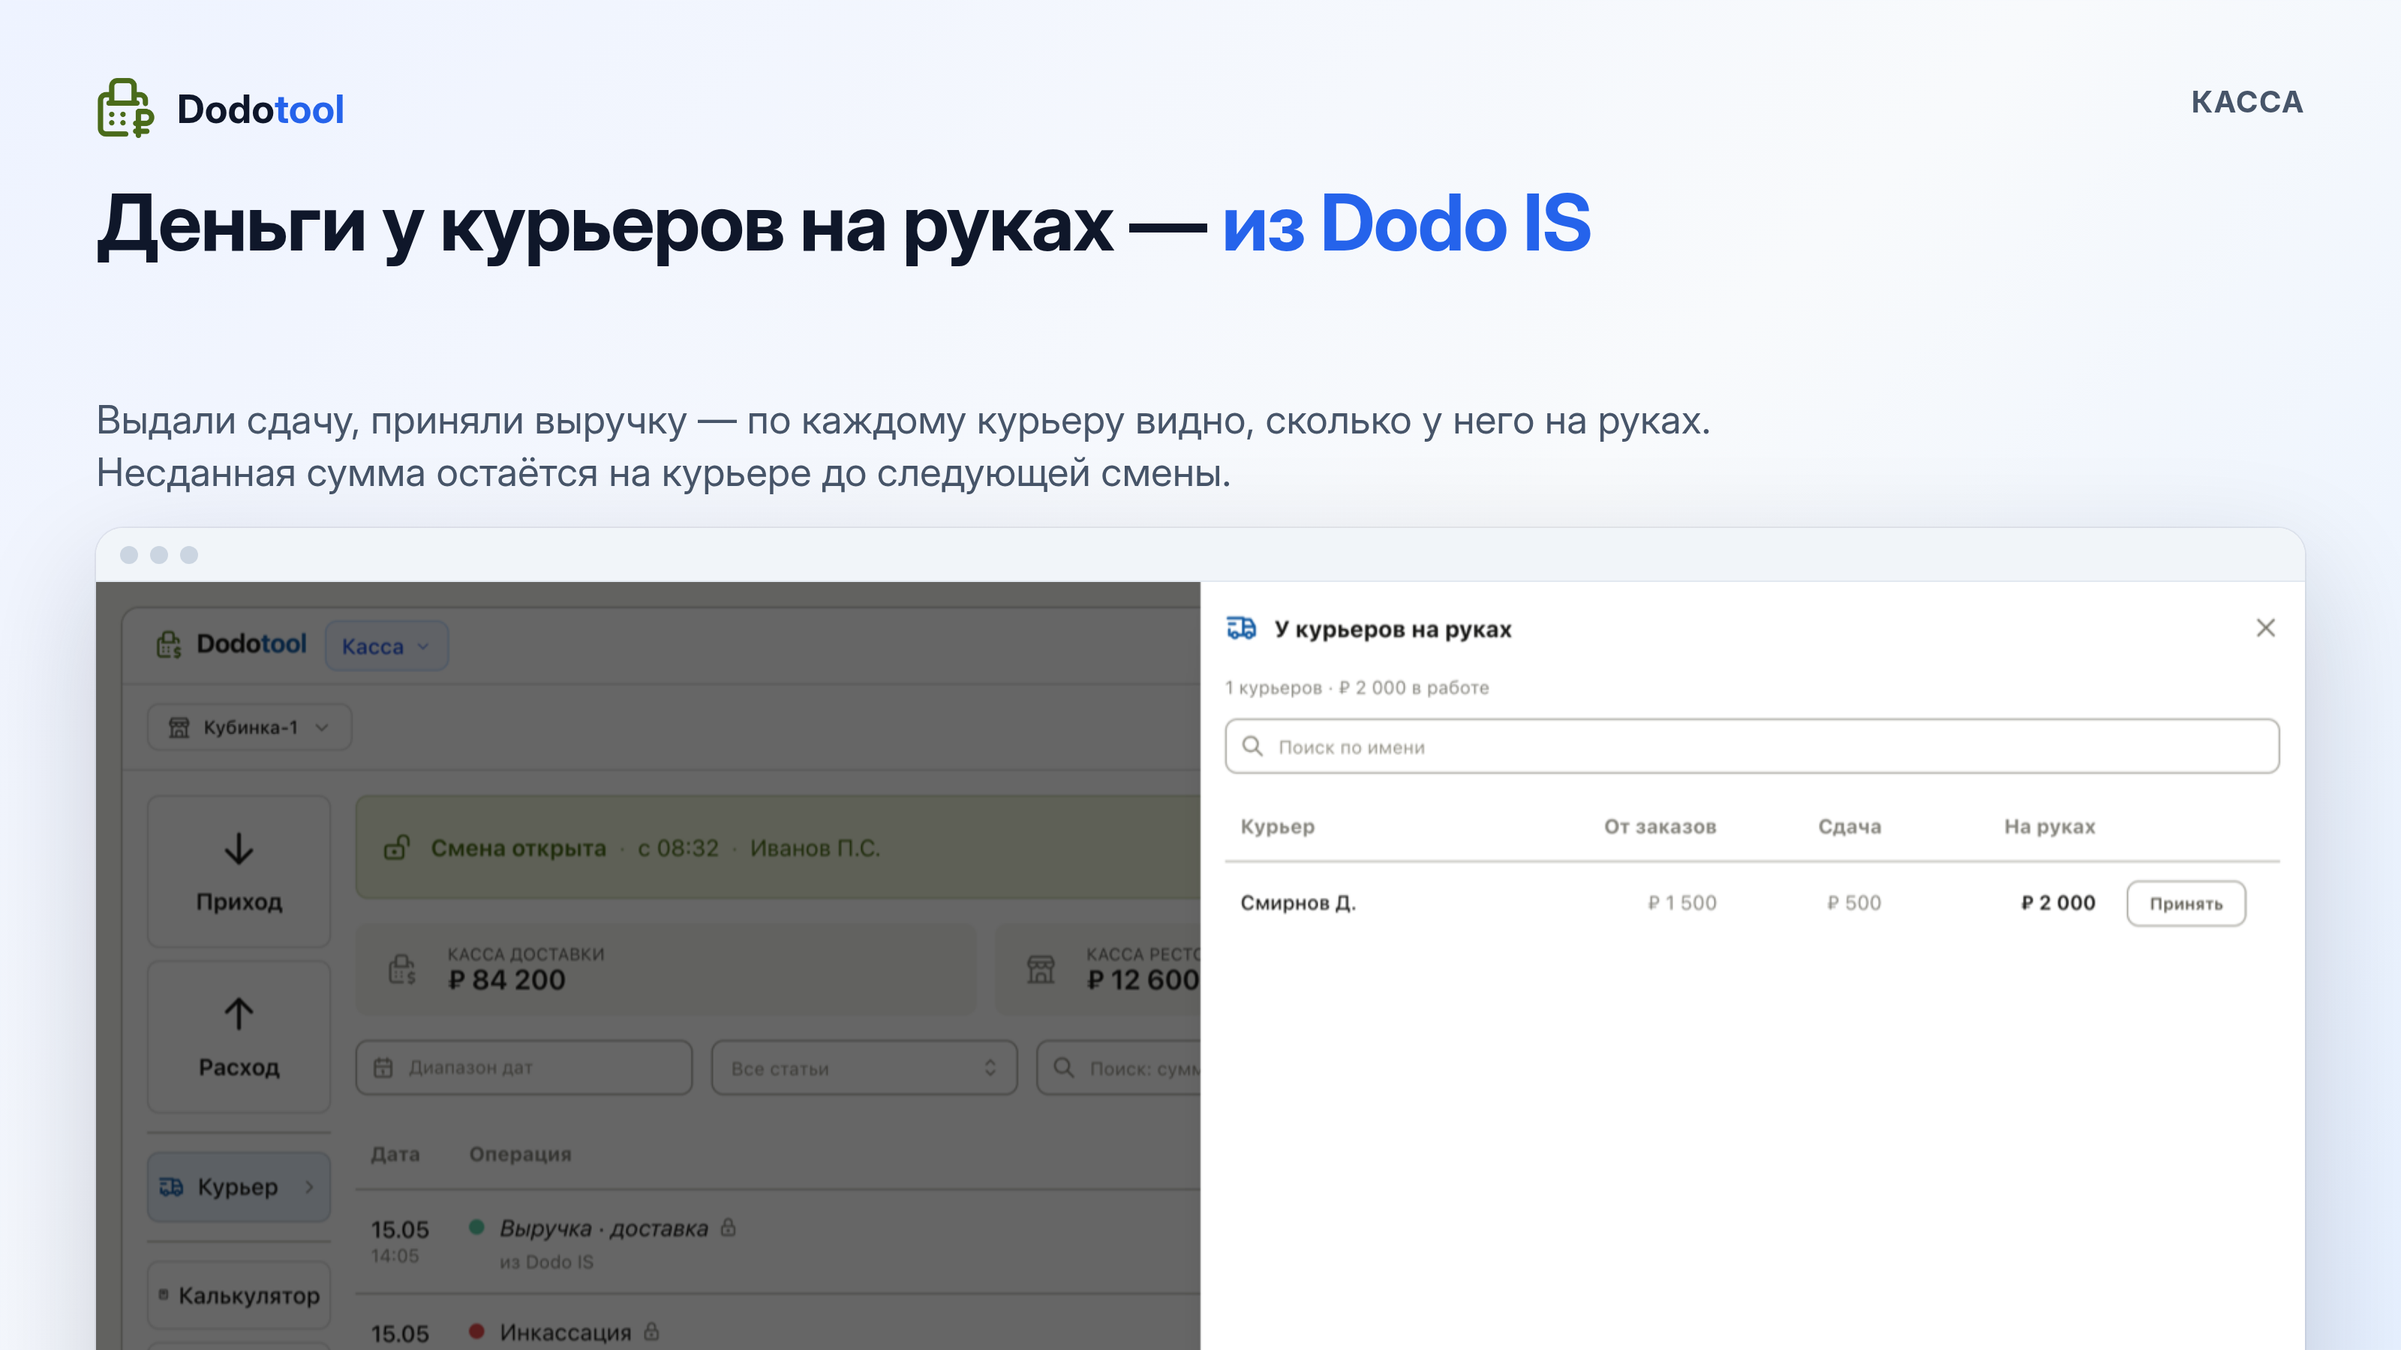
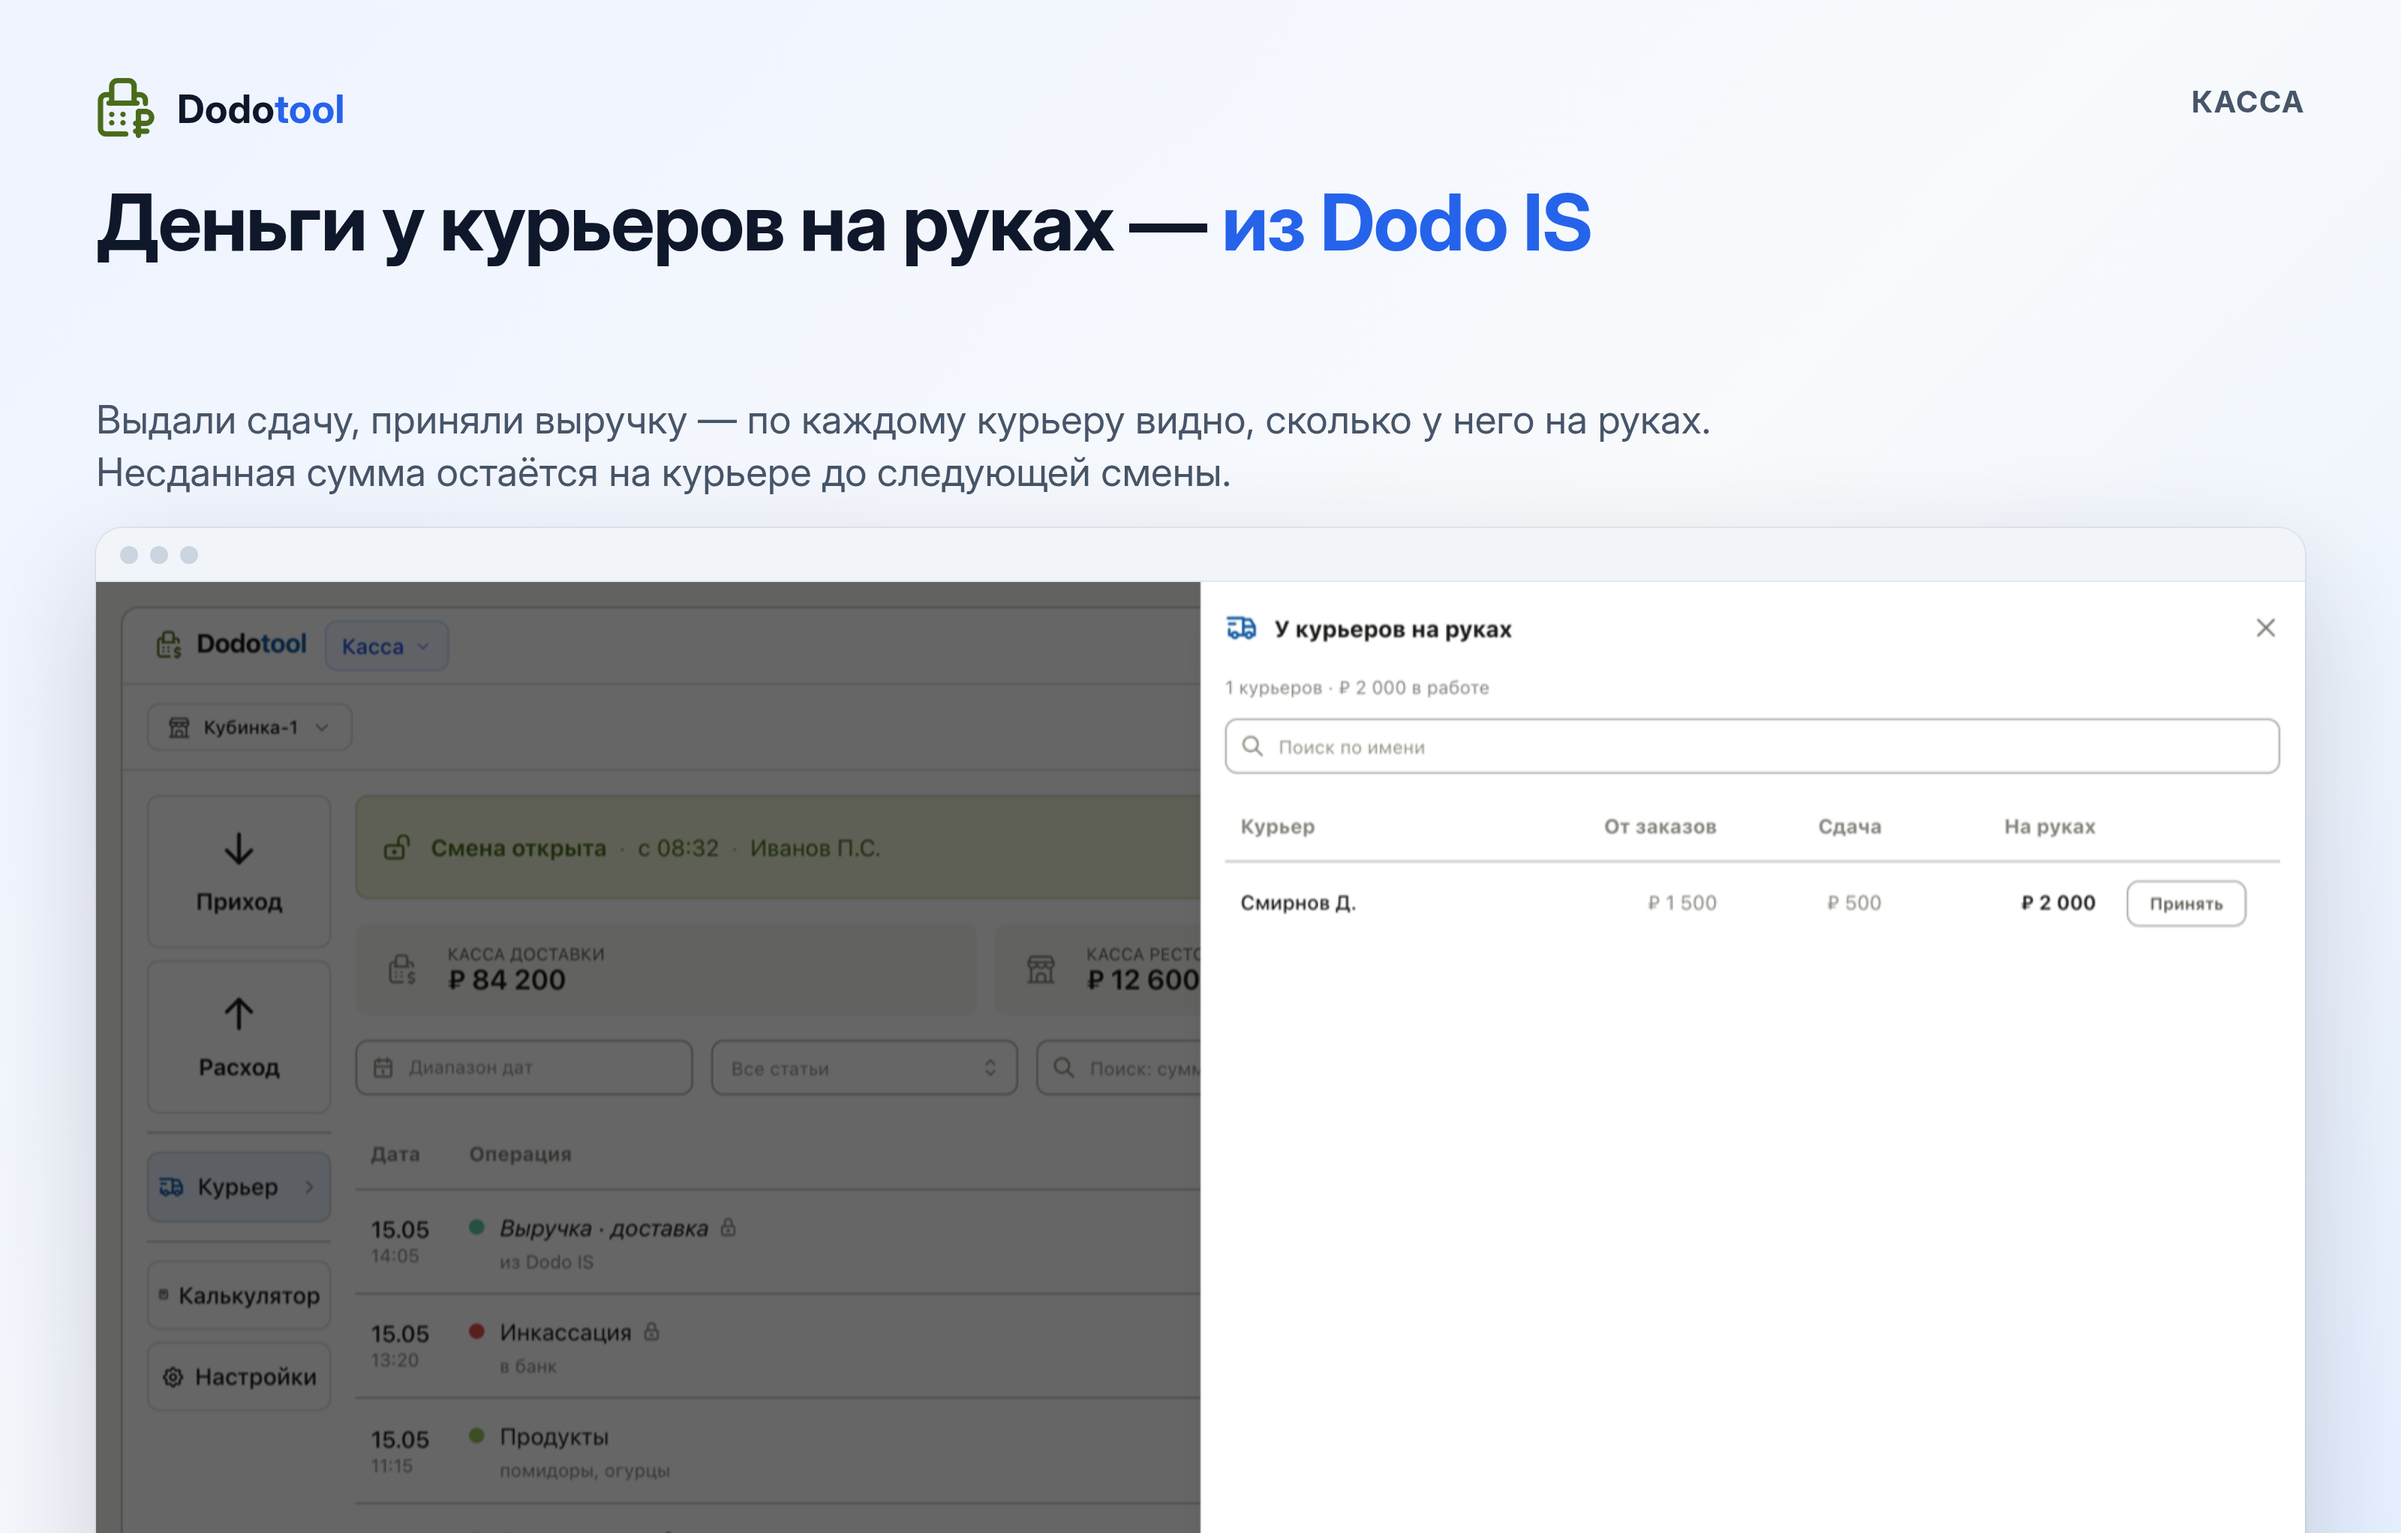
docs(marketplace): слайды под аспект карусели 1817/1160

diff --git a/docs/marketplace/slides/src/compose.py b/docs/marketplace/slides/src/compose.py
@@ -4,7 +4,7 @@ EXE='/sessions/dreamy-wonderful-gates/.cache/ms-playwright/chromium-1234/chrome-
 def b64(p): return 'data:'+('image/svg+xml' if p.endswith('.svg') else 'font/ttf' if p.endswith('.ttf') else 'image/png')+';base64,'+base64.b64encode(open(p,'rb').read()).decode()
 CSS = "@font-face{font-family:Inter;src:url('"+b64('InterVariable.ttf')+"');font-weight:100 900}" + """
 *{box-sizing:border-box;margin:0;padding:0}
-body{width:1600px;height:900px;overflow:hidden;font-family:Inter,'DejaVu Sans',sans-serif;color:#0f172a;
+body{width:1600px;height:1022px;overflow:hidden;font-family:Inter,'DejaVu Sans',sans-serif;color:#0f172a;
  background:linear-gradient(135deg,#eef3ff 0%,#f8fafc 55%,#e6f0ff 100%);position:relative}
 .brand{position:absolute;left:64px;top:52px;display:flex;align-items:center;gap:14px;white-space:nowrap;font-weight:700;font-size:26px;color:#0f172a}
 .brand img{width:40px;height:40px}
@@ -13,7 +13,7 @@ body{width:1600px;height:900px;overflow:hidden;font-family:Inter,'DejaVu Sans',s
 h1{position:absolute;left:64px;top:120px;font-size:52px;line-height:1.12;font-weight:700;letter-spacing:-.015em;max-width:1400px}
 h1 span{color:#2563eb}
 p.sub{position:absolute;left:64px;top:262px;font-size:26px;line-height:1.35;color:#475569;max-width:1100px}
-.shot{position:absolute;left:64px;right:64px;top:352px;height:620px;border-radius:18px 18px 0 0;overflow:hidden;
+.shot{position:absolute;left:64px;right:64px;top:352px;height:740px;border-radius:18px 18px 0 0;overflow:hidden;
  box-shadow:0 30px 80px rgba(15,23,42,.18),0 0 0 1px rgba(15,23,42,.06);background:#fff}
 .shot .bar{height:36px;background:#f1f5f9;display:flex;align-items:center;gap:8px;padding-left:16px;border-bottom:1px solid #e2e8f0}
 .shot .bar i{width:12px;height:12px;border-radius:50%;background:#cbd5e1;display:block}
@@ -34,7 +34,7 @@ def page(body, out):
     html=f"<html><head><meta charset='utf-8'><style>{CSS}</style></head><body>{body}</body></html>"
     with sync_playwright() as p:
         b=p.chromium.launch(executable_path=EXE,args=['--no-sandbox'])
-        pg=b.new_page(viewport={'width':1600,'height':900},device_scale_factor=2)
+        pg=b.new_page(viewport={'width':1600,'height':1022},device_scale_factor=2)
         pg.set_content(html); pg.wait_for_timeout(300); pg.screenshot(path=out); b.close()
     print(out)
 LOGO=b64('icon.svg')
@@ -75,7 +75,7 @@ if which=='k2':
 
 if which=='kassa':
     desk('Касса','Учёт наличных вместо Google-таблицы — <span>выручка из Dodo IS</span>','Выручка по каналам подтягивается из Dodo IS и попадает в журнал отдельными операциями. Остатки по кассам и сейфу, операции за день — в одном окне.','k1.png','kassa-1-journal.png',top=0,logo=KLOGO)
-    desk('Касса','Закрытие смены со сверкой — <span>«сошлось» или расхождение</span>','Факт по каждой кассе сверяется с расчётным остатком; Касса предупредит, если у курьера не сданы деньги. Передача смены под подпись.','k2.png','kassa-2-shift-close.png',top=-230,logo=KLOGO)
+    desk('Касса','Закрытие смены со сверкой — <span>«сошлось» или расхождение</span>','Факт по каждой кассе сверяется с расчётным остатком; Касса предупредит, если у курьера не сданы деньги. Передача смены под подпись.','k2.png','kassa-2-shift-close.png',top=-150,logo=KLOGO)
     desk('Касса','Деньги у курьеров на руках — <span>из Dodo IS</span>','Выдали сдачу, приняли выручку — по каждому курьеру видно, сколько у него на руках. Несданная сумма остаётся на курьере до следующей смены.','k4.png','kassa-3-couriers.png',top=0,logo=KLOGO)
-    desk('Касса','Чек к каждой операции — <span>файлом или фото с телефона</span>','К любому приходу или расходу прикрепляется чек или накладная (jpg, png, pdf). Статьи расходов единые для сети, задаёт владелец.','k5.png','kassa-4-expense.png',top=-200,logo=KLOGO)
-    desk('Касса','История правок — <span>кто создал, кто и что изменил</span>','У каждой операции видно автора, изменения и время. Удаление тоже остаётся в истории с причиной — спорить о пересменке не о чем.','k7.png','kassa-5-history.png',top=-200,logo=KLOGO)
+    desk('Касса','Чек к каждой операции — <span>файлом или фото с телефона</span>','К любому приходу или расходу прикрепляется чек или накладная (jpg, png, pdf). Статьи расходов единые для сети, задаёт владелец.','k5.png','kassa-4-expense.png',top=-120,logo=KLOGO)
+    desk('Касса','История правок — <span>кто создал, кто и что изменил</span>','У каждой операции видно автора, изменения и время. Удаление тоже остаётся в истории с причиной — спорить о пересменке не о чем.','k7.png','kassa-5-history.png',top=-120,logo=KLOGO)

diff --git a/docs/marketplace/kassa-card-status.md b/docs/marketplace/kassa-card-status.md
@@ -51,3 +51,7 @@ base64. Все 5 кадров перезалиты в карусель.
 kassa-glyph.png`, вырезан из иконки 02). Проверка после сохранения: CDN
 отдаёт новые кадры (Inter, глиф кассы) — если в кабинете видно старое,
 это кэш браузера/CDN на превью.
+**Формат карусели (важно):** витрина рендерит кадры в боксе с
+`aspect-ratio: 1817/1160` (≈1.566) и `object-fit: fill` — 16:9 сжимается
+по горизонтали на ~12 % (это и было «сжатым шрифтом»). Слайды теперь
+рендерятся 1600×1022 @2x и заливаются как 1817×1160 (`mp_*.png`).

diff --git a/docs/marketplace/card-copy.md b/docs/marketplace/card-copy.md
@@ -3,7 +3,7 @@
 Собрано под поля редактора `marketplace.dodois.io/manage` (проверено
 2026-09-03): название, описание ≤200 знаков, категории, поддержка, слайдер,
 вкладки «О приложении» / «Тарифы» / «Инструкция», карточки тарифов.
-Картинки — `docs/marketplace/slides/` (1600×900 @2x, порядок = номер файла).
+Картинки — `docs/marketplace/slides/` (1600×1022 @2x → 1817×1160 под бокс карусели 1817/1160; порядок = номер файла).
 
 ---
 
